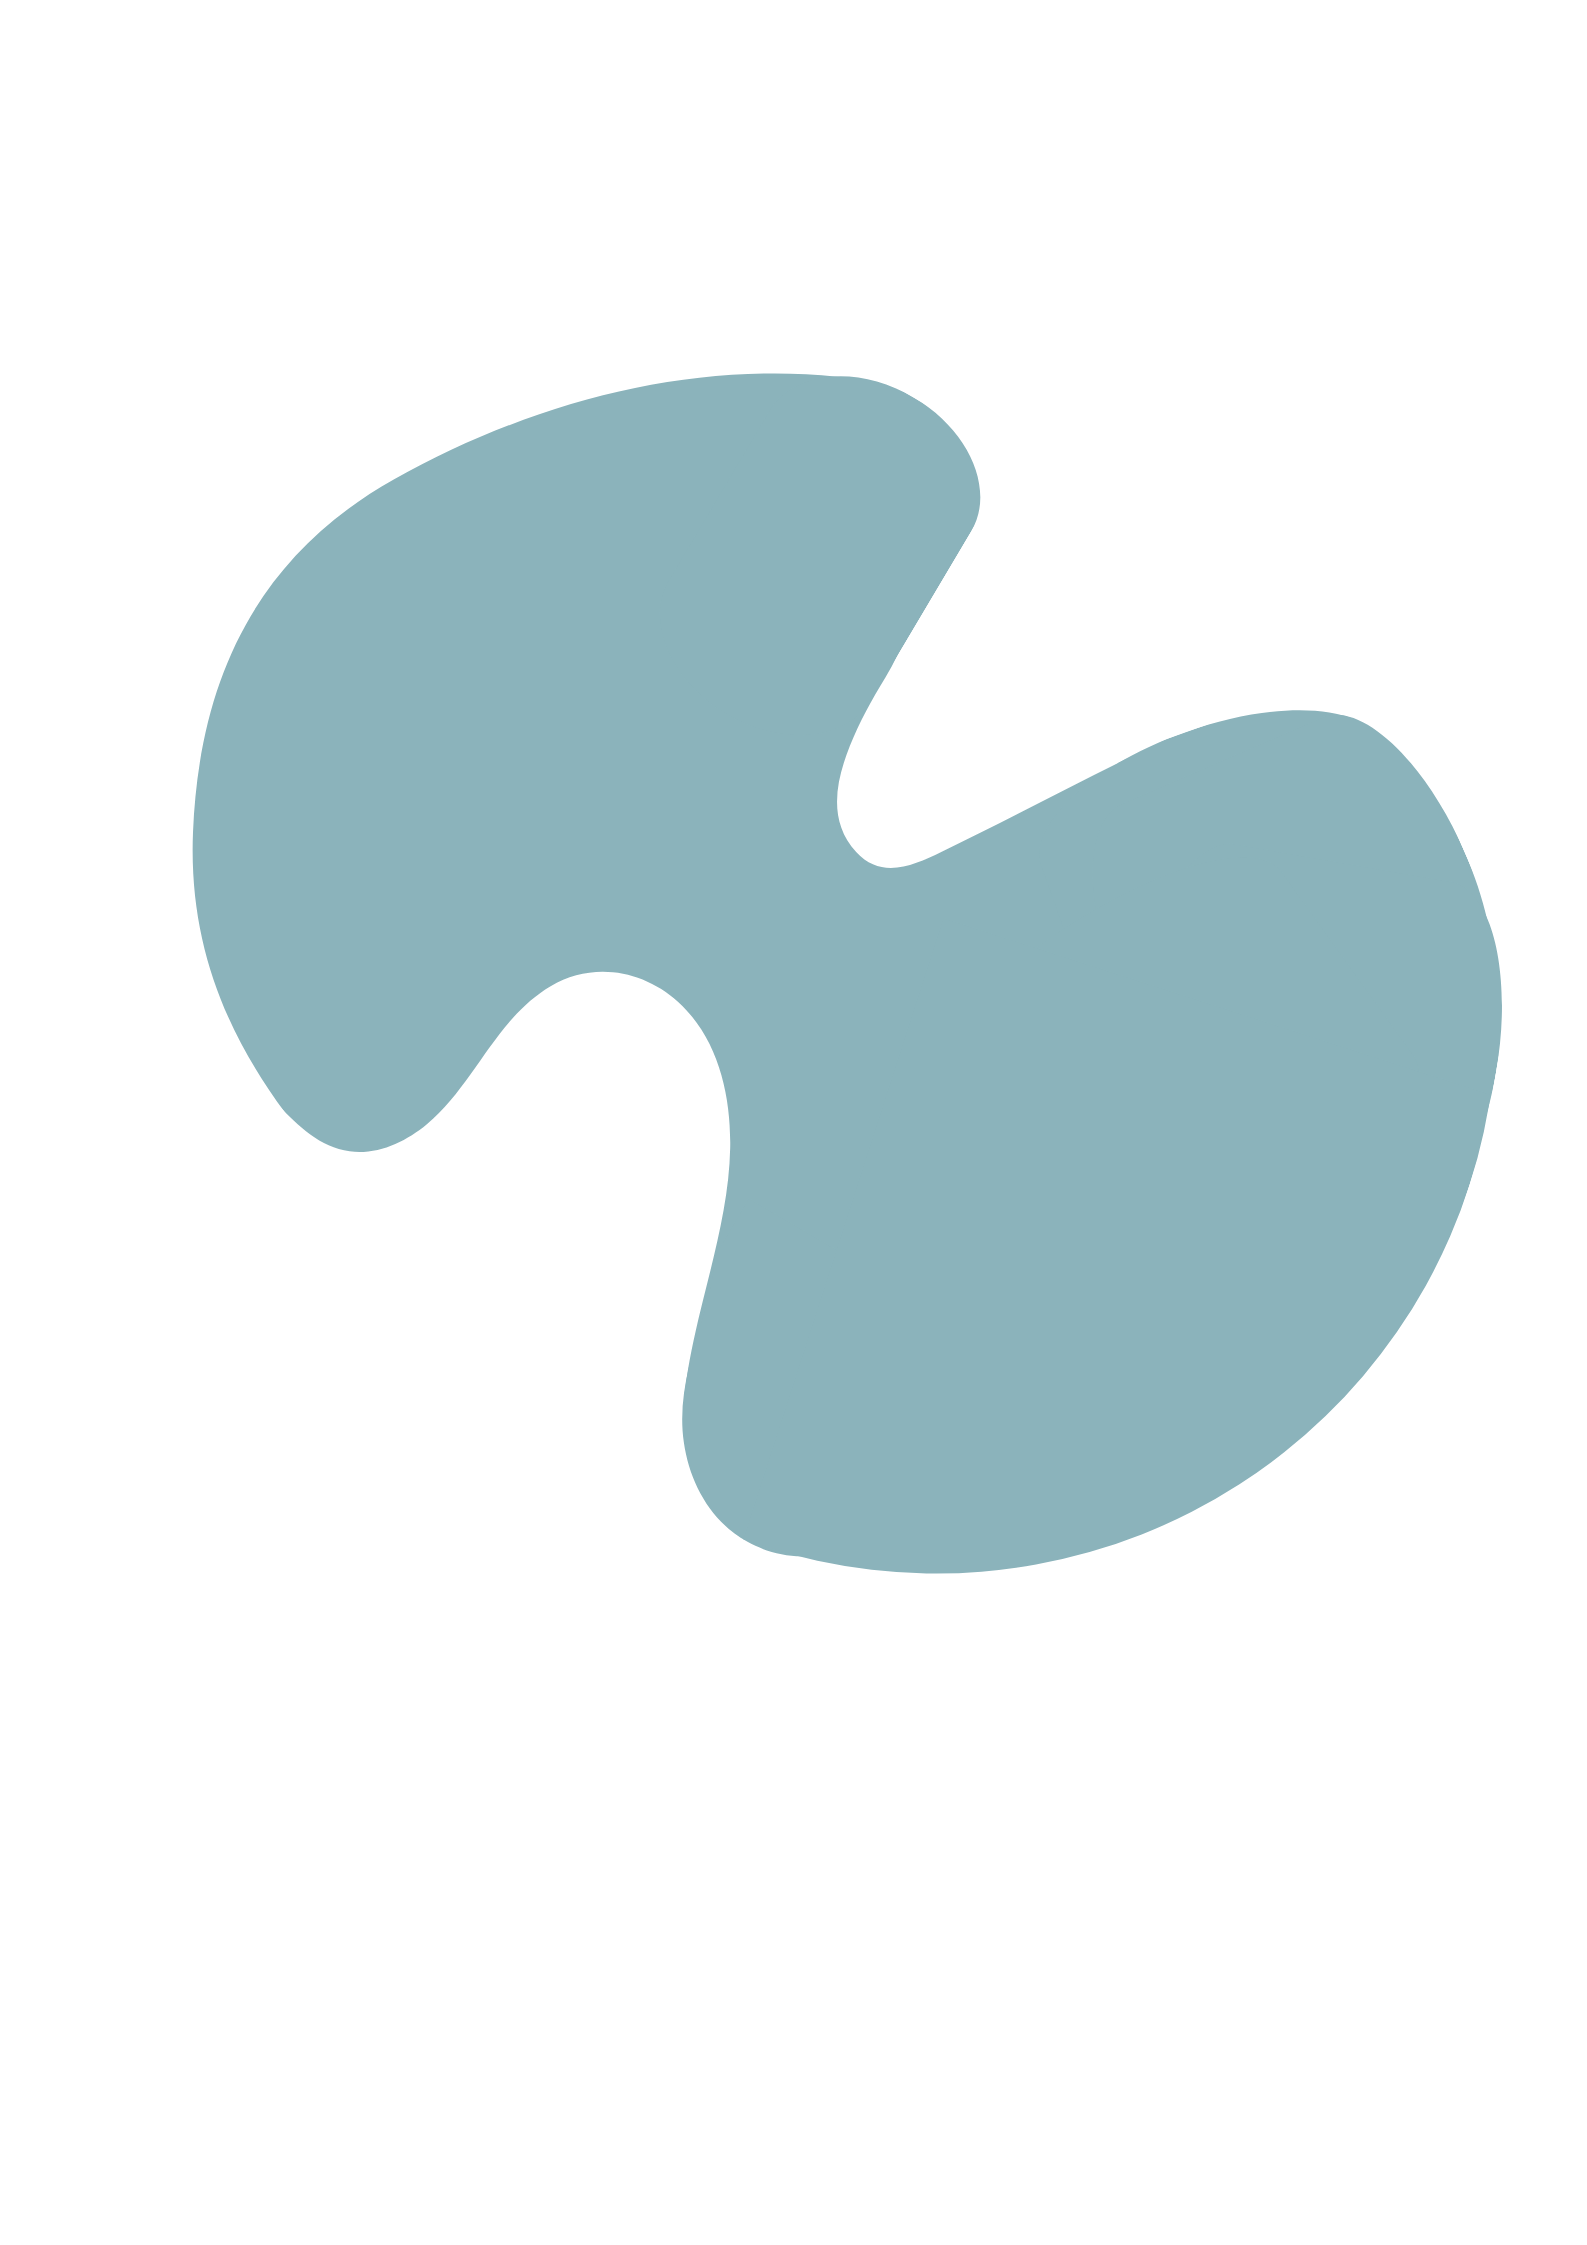
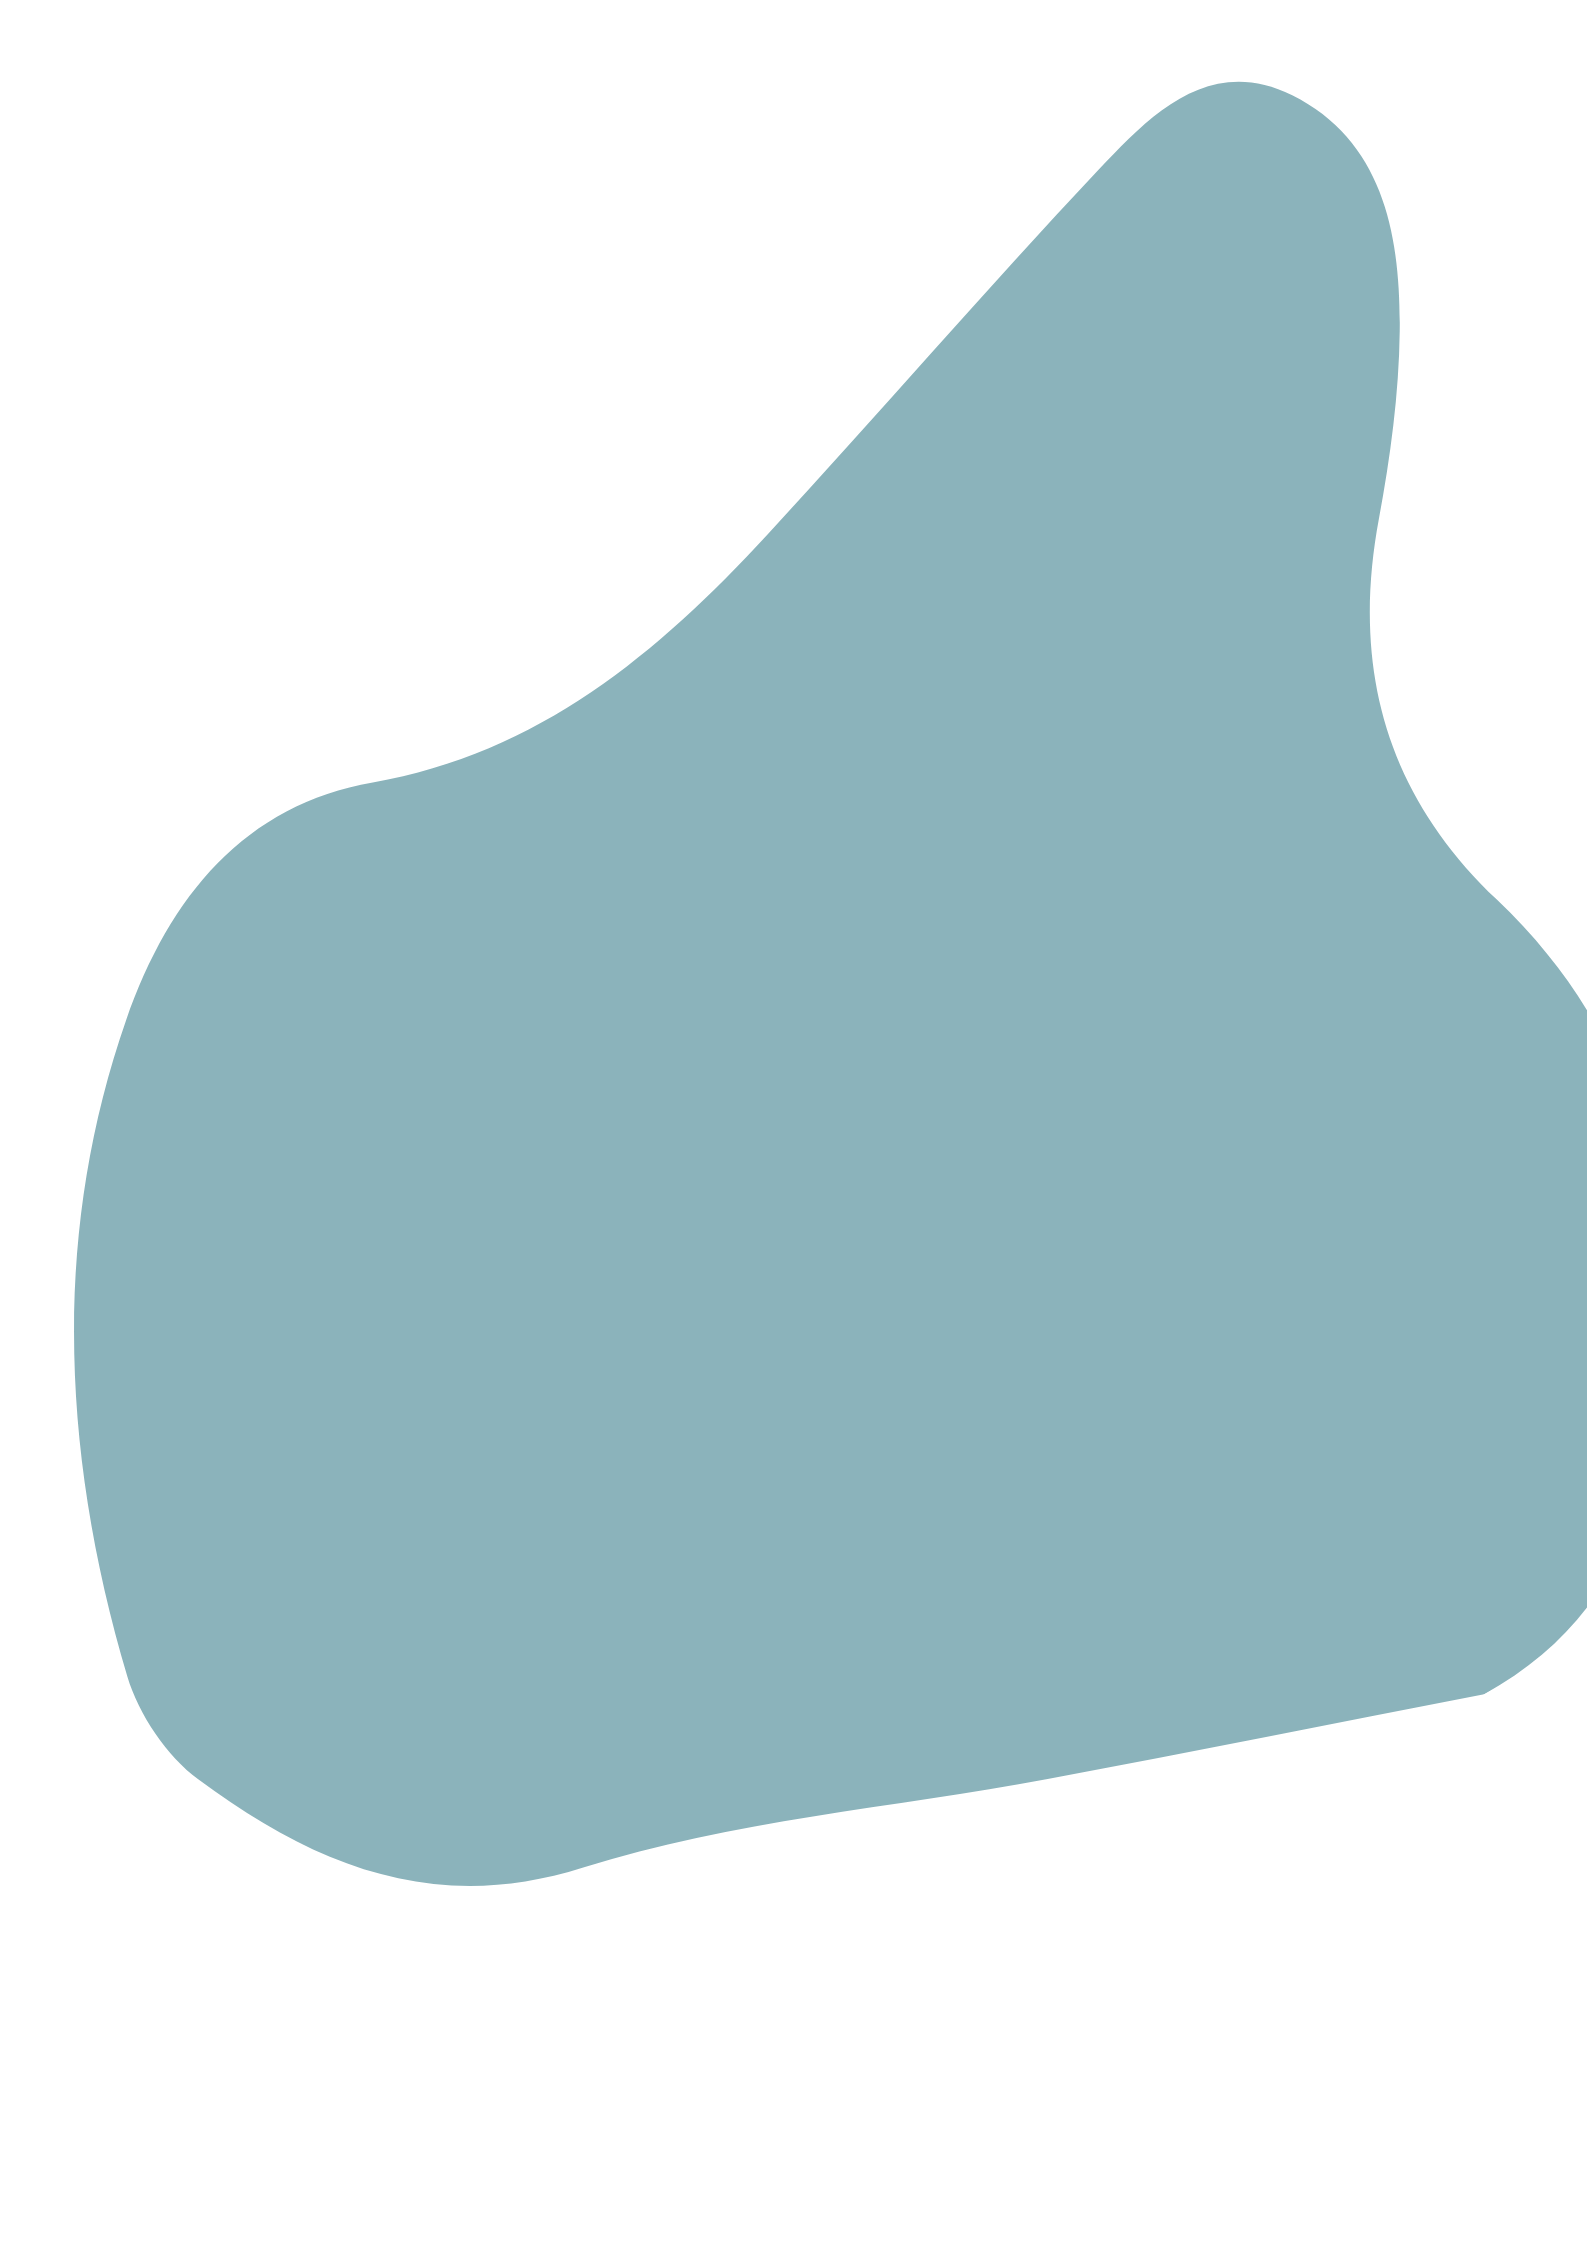
termine con las imagenes y colores

diff --git a/css/estilos.css b/css/estilos.css
@@ -130,20 +130,22 @@ header a:hover {
  }
 
 .dibujo1{
-    width: 50rem;
-    height: 50rem;
+    width: 30rem;
+    height: 30rem;
     margin-left: -10rem;
 }
 .dibujo2{
-    width: 13rem;
-    height: 18rem;
-    margin-left: -30rem;
-    margin-top: 10rem;
+    width: 8rem;
+    height: 12rem;
+    margin-left: -13rem;
+    margin-top: 7rem;
 }
 
 .textoabout{
     display: flex;
     flex-direction: column;
+    margin-top: 5rem;
+    margin-left: 7rem;
 }
 
 .texto1{
@@ -151,7 +153,7 @@ header a:hover {
     justify-content: center;
     font-size: 5em;
     margin-bottom: 0;
-    color: rgb(212, 169, 176);
+    color: rgb(240, 142, 147);
 }
 
 .texto2{
@@ -212,14 +214,29 @@ header a:hover {
 
 /* SECCION IMAGENES*/
 .imagenes{
-    background-color: rgb(242, 41, 41);
     display: flex;
     justify-content: end;
+    margin-bottom: 0;
+}
+
+.dibujo4{
+    width: 20rem;
+    height: 20rem;
+    margin-right: -4rem;
+    margin-top: 0;
+}
+.dibujo3{
+    width: 8rem;
+    height: 12rem;
+    margin-right: 3rem;
+    position: absolute;
 }
 
 /*SECCION WORK*/
 .work{
+    margin-top: -10rem;
     margin-bottom: 2rem;
+
 }
 
 .worktexto1{
@@ -227,7 +244,7 @@ header a:hover {
     justify-content: center;
     font-size: 5rem;
     margin-bottom: 0;
-    color: rgb(212, 169, 176);
+    color: rgb(240, 142, 147);
 }
 
 .worktexto2{
@@ -272,11 +289,16 @@ header a:hover {
 
 /*SECCION DIBUJO Y TITULO*/
 
+.rama{
+    width: 20rem;
+    margin-left: -3.5rem;
+}
 .titulo{
     display: flex;
     justify-content: center;
     font-size: 5rem;
-    color: rgb(212, 169, 176);
+    color: rgb(240, 142, 147);
+    margin-top: -8rem;
 }
 
 /*SECCION FORMULARIO*/
@@ -382,9 +404,10 @@ textarea{
 footer{
     color: white;
     background-color: black;
-    height: 20rem;
+    height: 15rem;
     padding-top: 5rem;
     margin-top: -8rem;
+    
 }
 
 footer a{
@@ -393,8 +416,15 @@ footer a{
 }
 
 footer a:hover{
-    text-transform: uppercase;
+    text-decoration: underline
 }
 footer nav{
-    margin-left: 5rem;
+    margin-left: 3rem;
+    margin-top: -3rem;
+    padding-left: 2rem;
+}
+
+.paloma{
+    width: 15rem;
+     margin-left: 25rem;
 }

diff --git a/index.html b/index.html
@@ -71,8 +71,9 @@
 
         <!--SECCION IMAGENES-->
         <section class="imagenes" >
-                    <img src="img/mancha-removebg-preview.png" alt="mancha">
-                    <img src="img/pajaro.png" alt="pajarito">
+                    <img class="dibujo3" src="img/pajaro (2).png" alt="pajarito">
+                    <img class="dibujo4" src="img/mancha celeste.png" alt="mancha">
+                    
         </section>
      
      <!--SECCION WORK -->
@@ -95,7 +96,7 @@
     
      <!--SECCION DIBUJO Y TITULO-->
         <section class="dibujo-titulo">
-            <img src="" alt="rama">
+            <img class="rama" src="img/rama.png" alt="rama">
             <h2 class="titulo">lelelelelelelelelelelle</h2>
         </section>
      
@@ -143,8 +144,9 @@
             <a href="">Acerca de mi</a>
             <a href="">Trabajos</a>
             <a href="">Contacto</a>
-            <img src="" alt="pajarito">
+            
         </nav>
+        <img class="paloma" src="img/paloma.png" alt="pajarito">
         
     </footer>
 
